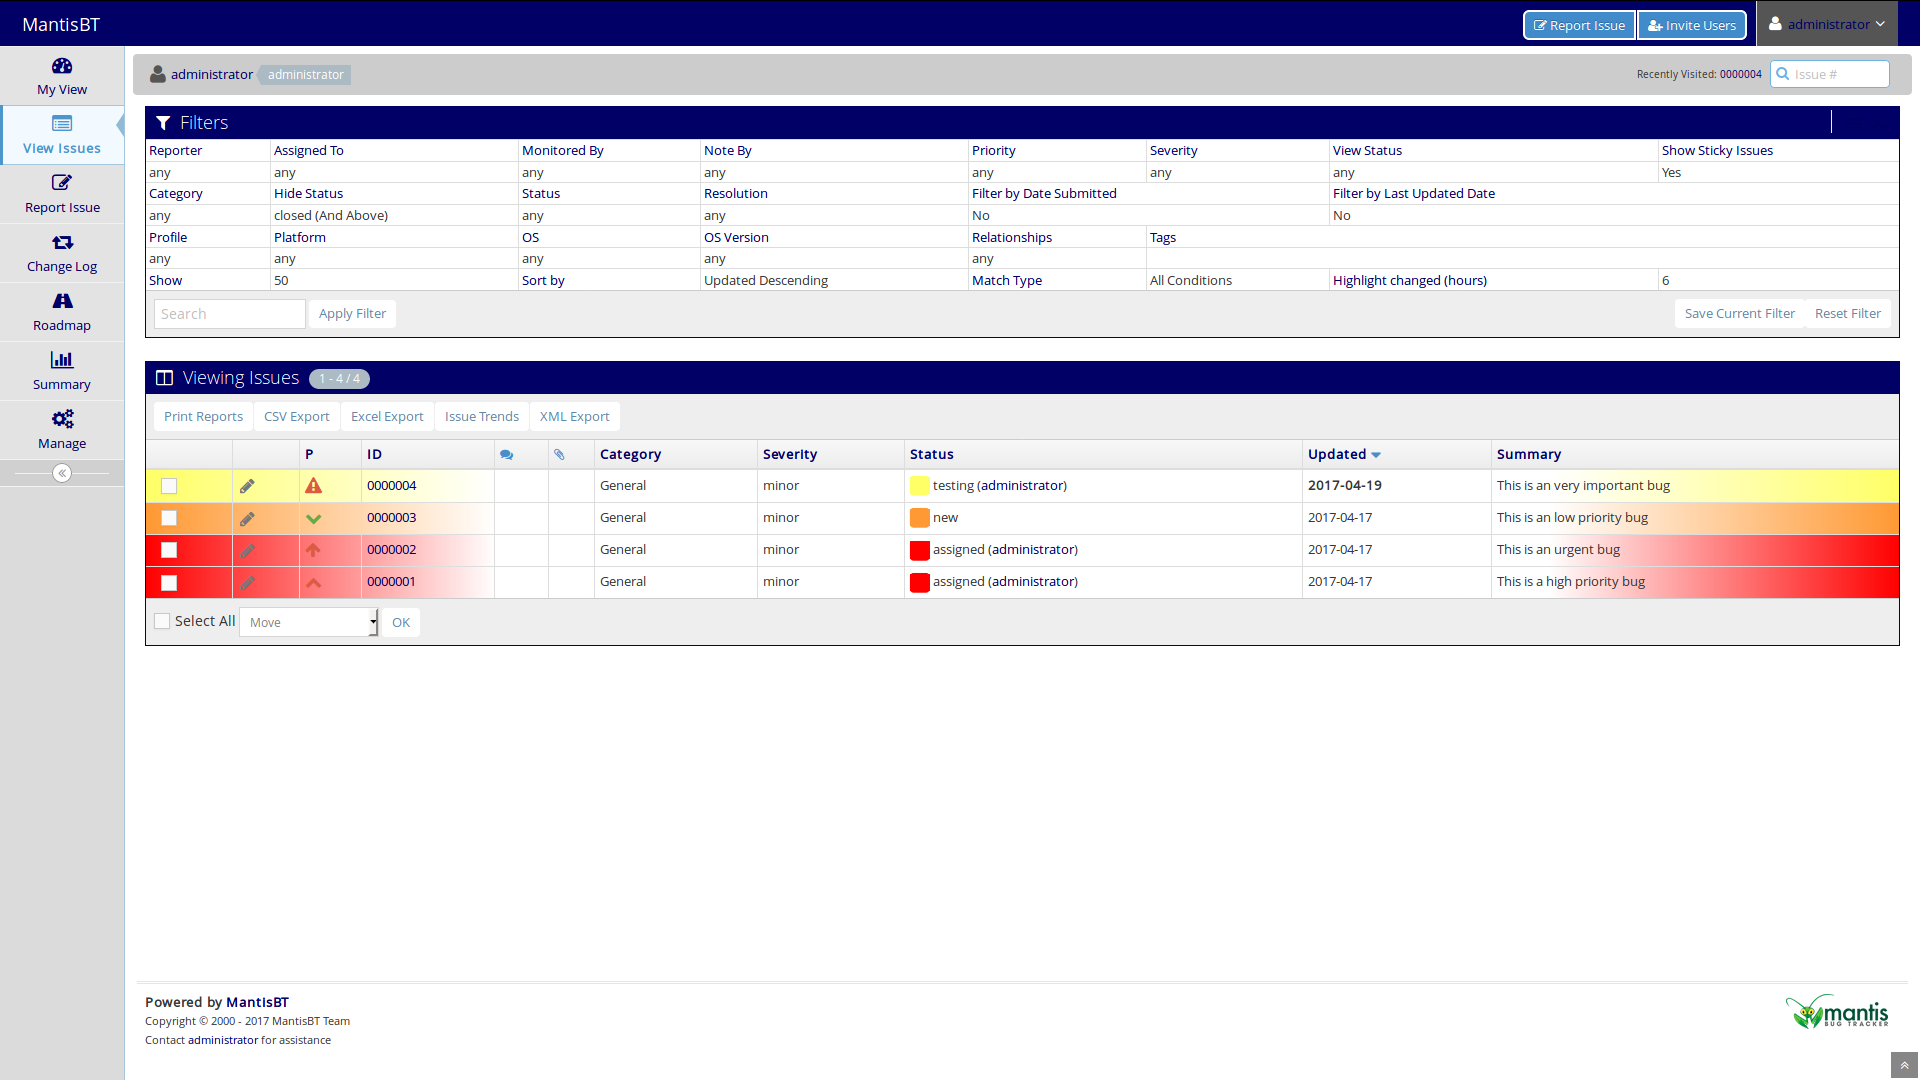
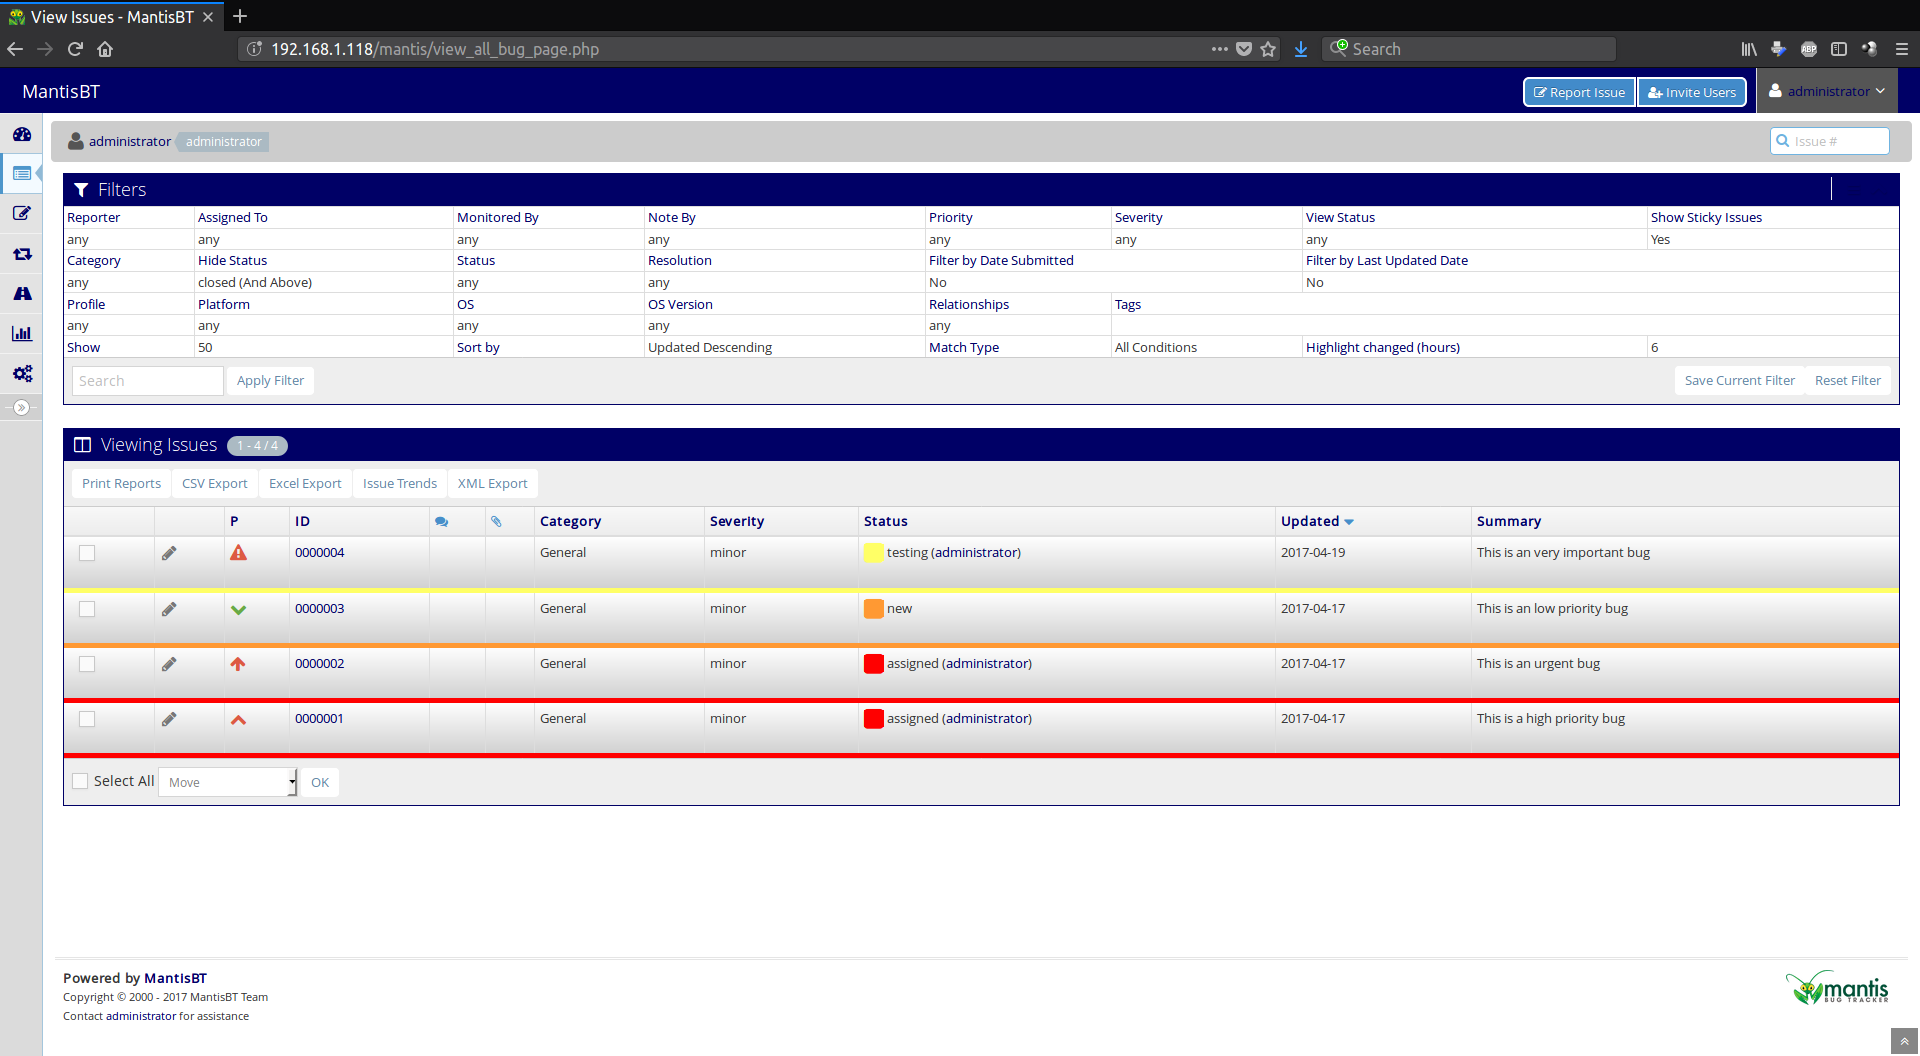
V 0.2 - added bottom colored line for the issues rows - removed gradient from the issue rows - did not look nice

diff --git a/suke/style.js b/suke/style.js
@@ -1,34 +1,43 @@
+/* V 0.2 by Samunosuke */
 window.addEventListener('load', overrideStyles, false);
 
 function overrideStyles(){
 	try {
 
-        /* Set brand name to be white again */
+      /* Set brand name to be white again - this is neccessary because color overrides in the default.css */
     	var navbarBrand = document.getElementsByClassName('navbar-brand');
     	navbarBrand[0].firstChild.style.color = '#FFFFFF';
     
-    	/*  */
+    	/* Add gradient to my buglist entries - uses the status colors of the mantis installation or set by custom values */
     	var bgColor;
     	var rows = document.getElementsByClassName('my-buglist-bug');
     	for(i=0; i<rows.length; i++) {
         	var elem = rows[i].getElementsByClassName('fa');
             var cStyle = window.getComputedStyle(elem[0]);
         	bgColor = cStyle.backgroundColor;
-        	rows[i].style.backgroundImage = '-moz-linear-gradient(to left, ' + bgColor + ', white)';
+        	rows[i].style.backgroundImage = '-moz-linear-gradient(to top, #DEDEDE, white)';
+            rows[i].style.height = '55px';
+        	rows[i].style.borderBottom = "thick solid "
+            rows[i].style.borderBottomColor = bgColor;
     	}
     
-		var bgColor;
-		var buglist = document.getElementById('buglist');
-		var bugListChild = buglist.getElementsByTagName('tbody');
-		var rows = bugListChild[0].getElementsByTagName('tr');
-		for (i = 0; i < rows.length; i++) {
-  			var colStatus = rows[i].getElementsByClassName('column-status');
-  			var elem = colStatus[0].getElementsByClassName('align-left');
-  			var iElement = elem[0].getElementsByClassName('fa-square');
-        	var cStyle = window.getComputedStyle(iElement[0]);
-  			bgColor = cStyle.backgroundColor;
-  			rows[i].style.backgroundImage = '-moz-linear-gradient(to left, ' + bgColor + ', white, white, white, white, '+ bgColor +')';
+    	/* Improve style for all buglist entries */
+			var bgColor;
+			var buglist = document.getElementById('buglist');
+			var bugListChild = buglist.getElementsByTagName('tbody');
+			var rows = bugListChild[0].getElementsByTagName('tr');
+			for (i = 0; i < rows.length; i++) {
+					var colStatus = rows[i].getElementsByClassName('column-status');
+					var elem = colStatus[0].getElementsByClassName('align-left');
+					var iElement = elem[0].getElementsByClassName('fa-square');
+		      var cStyle = window.getComputedStyle(iElement[0]);
+					bgColor = cStyle.backgroundColor;
+					/* add some nicer looking gradient */
+		      rows[i].style.backgroundImage = '-moz-linear-gradient(to top, #CECECE, white)';
+		      rows[i].style.height = '55px';
+		      /* add a bottom colored line to the issue row */
+		      rows[i].style.borderBottom = "thick solid "
+		      rows[i].style.borderBottomColor = bgColor;
 		}
 	}catch(err){ console.log(err); }
 	window.removeEventListener('load', overrideStyles);
-}

diff --git a/README.md b/README.md
@@ -10,7 +10,10 @@ Thanks Tim Petruski!
 
 [Download](https://github.com/Samunosuke/mantis-suke-theme/zipball/master)
 
-Installation:
+## Version
+0.2
+
+## Installation:
 1. Copy the MantisThemeManager folder to /mantis/plugins (.../mantis/plugins/MantisThemeManager)
 2. Create the themes folder in the mantis/css directory if it does not yet exist
 3. Copy the suke folder with all content into the mantis themes folder (.../mantis/css/themes/suke)
@@ -19,7 +22,7 @@ Installation:
 6. Open the MantisThemeManager configuration interface (click on the name which became a link)
 7. Choose the theme and apply by clicking the "Change theme" button
 
-Tested with Mantis BT 2.3.0
+Tested with Mantis BT 2.3.0 & 2.9.0
 
 ## ToDo
 - change pure java script implementation to use jQuery
@@ -28,3 +31,12 @@ Tested with Mantis BT 2.3.0
 ## I know
 - it does not yet look nice / it is just a proof of concept
 - it's a hackish implementation
+
+Changes:
+V 0.2 
+- added bottom colored line for the issues rows
+- removed gradient from the issue rows - did not look nice 
+
+V 0.1
+first proof of concept
+
